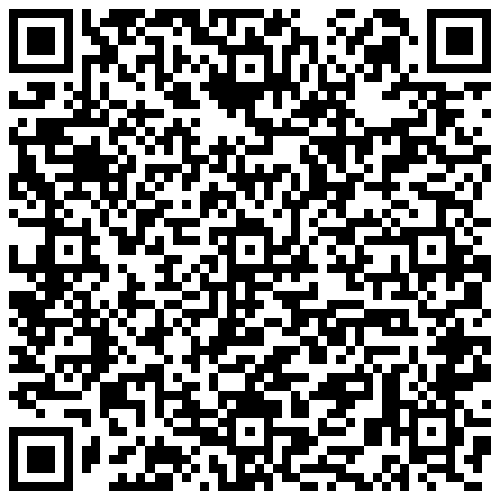
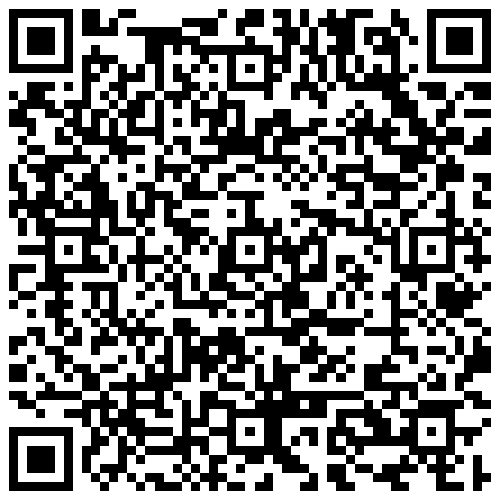
newnewnenwnenew

diff --git a/themes/core_lugo/layouts/index.html b/themes/core_lugo/layouts/index.html
@@ -20,16 +20,17 @@
 <header><a href="{{ .Site.BaseURL }}"><h1 id="tag_{{ .Title }}">{{ block "title" . }}{{ end }}</h1></a></header>
 <h1 style="text-align: center; color:rgb(227, 66, 55)">corejourney</h1>
 <br>
-<img src="pics/gallerywallpaper.png" style="max-width: 90%;">
-<p style="text-align: center;">Welcome to my beautiful page</p>
+<!-- <img src="pics/gallerywallpaper.png" style="max-width: 90%;"> -->
+<p style="text-align: center;">"<i>NIL DESPERANDVM</i>"</p>
 <p style="text-align: center;">I hope you enjoy your stay.</p>
+<br>
 <ul class="icon-menu">
 	<li><a href="{{ .Site.BaseURL }}/about" title="about me"><img src="/pics/about.png">  </a></li>
 	<li><a href="{{ .Site.BaseURL }}/contact" title="contact info"><img src="/pics/letter.svg">  </a></li>
 	<li><a href="{{ .Site.BaseURL }}/mine" title="image collection"><img src="/pics/images.png">  </a></li>
 	<li><a href="{{ .Site.BaseURL }}/journal" title="journal entries"><img src="/pics/journal.png">  </a></li>
 	<li><a href="{{ .Site.BaseURL }}/books" title="books i have and appreciate"><img src="/pics/library.svg"> </a></li>
-	<!-- <li><a href="{{ .Site.BaseURL }}/support" title="money"><img src="/pics/piggy.svg">  </a></li> -->
+	<li><a href="{{ .Site.BaseURL }}/support" title="money"><img src="/pics/piggy.svg">  </a></li>
 </ul>
 
 <br>

diff --git a/content/support/_index.md b/content/support/_index.md
@@ -1,12 +1,14 @@
 +++
 title = 'support'
 date = 0000-01-01T18:02:44-04:00
-draft = true
+draft = false
 exclude = true
 +++
-If you would like to support anything I do, feel free to send me some Monero. All coins are held by a non-custodial wallet and are secure.
+If you would like to support anything I do, (I am a broke student) feel free to send me some Monero. 
 
-#### 875rb2p5mfjbAsBT7vbZKvGWM864haZsC5j4LmbzhuNKJBY79LwJ9rveK3hP2HkS2G31f4JDJNhM38sedJ3LgfSqPeopjRU
-![Monero](/pics/monero.png)
+All coins are held by a non-custodial wallet and are secure.
+
+#### 87PC6CVjZpgSka1qaNCVrnBafkXAbTdDMScjHdC3d7oGVDi1X8Swpii8rCoHMPAM6pFG7n1C416X2DYSGBSg5mf6CzRnPGG
+{{< figure src="/pics/monero.png" width="60%" height="auto" >}}
 
 

diff --git a/content/creative-projects.md b/content/creative-projects.md
@@ -9,3 +9,9 @@ Books to adapt and formalize:
 1. Leviathan by Thomas Hobbes (Latin Edition)
 2. Utopia by Thomas Murus
 3. Tristia by Ovid
+4. METAMORPHOSES by Ovid
+5. Ars Amatoria by Ovid
+6. Aeneid by Vergil
+7. Caesar's Gallic War by Iulius Caesar
+8. Sermones by Horatius 
+
